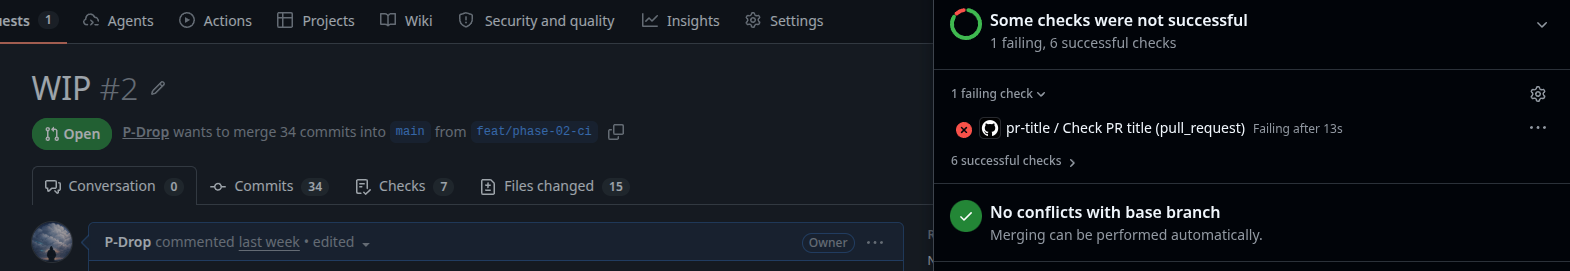
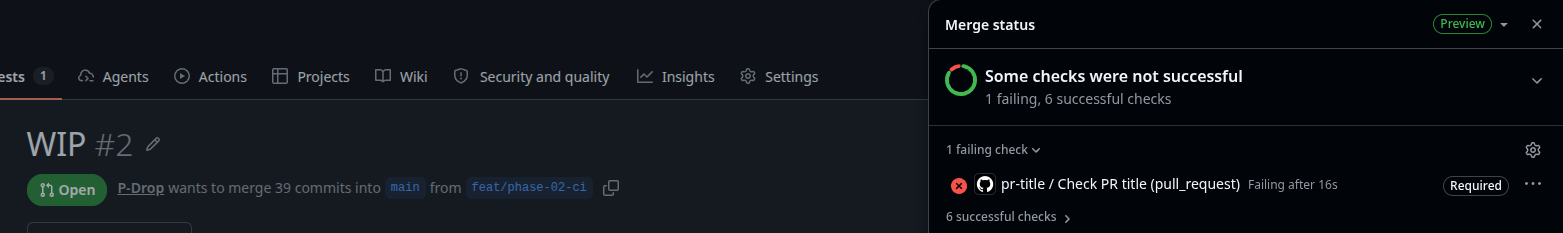
docs: update PR #4 reference and screenshots

diff --git a/docs/tutorial/retos/fase-02-ci.md b/docs/tutorial/retos/fase-02-ci.md
@@ -356,6 +356,8 @@ permissions: contents: read
 
 - [x] Commits atómicos y convencionales, con asuntos de **72 caracteres como máximo**. La PR está descrita con tu plantilla.
 
+Verificación con fallos esperados en la [PR #4](https://github.com/P-Drop/cratedigger/pull/4) test: ci gates bad commits (cerrado sin mergear).
+
 Las reglas de los mensajes que llegan a `main` están en `.github/scripts/check-message.sh`, el script que usan los checks `Check commit messages` y `Check PR title`. Prueba local con los mensajes límite que propuso el tutor en la review:
 
 ```bash
